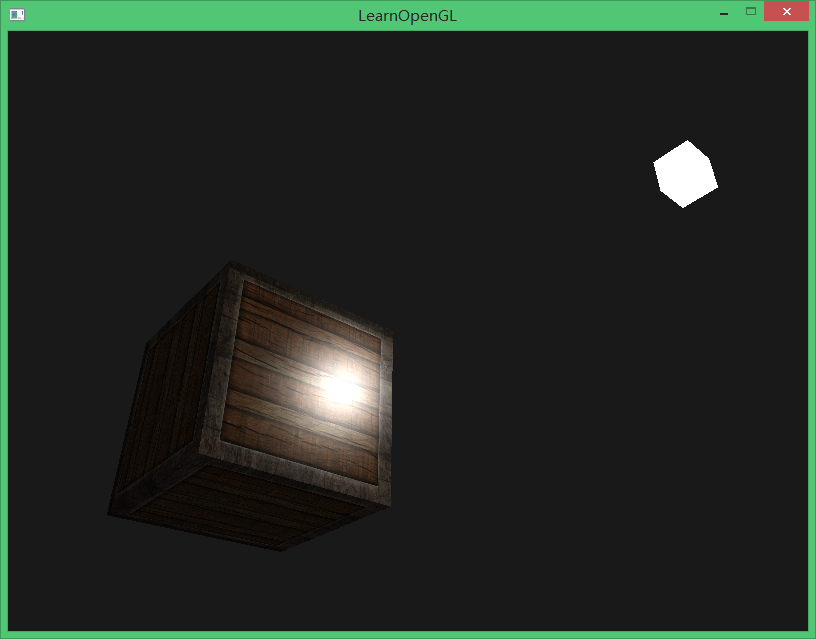
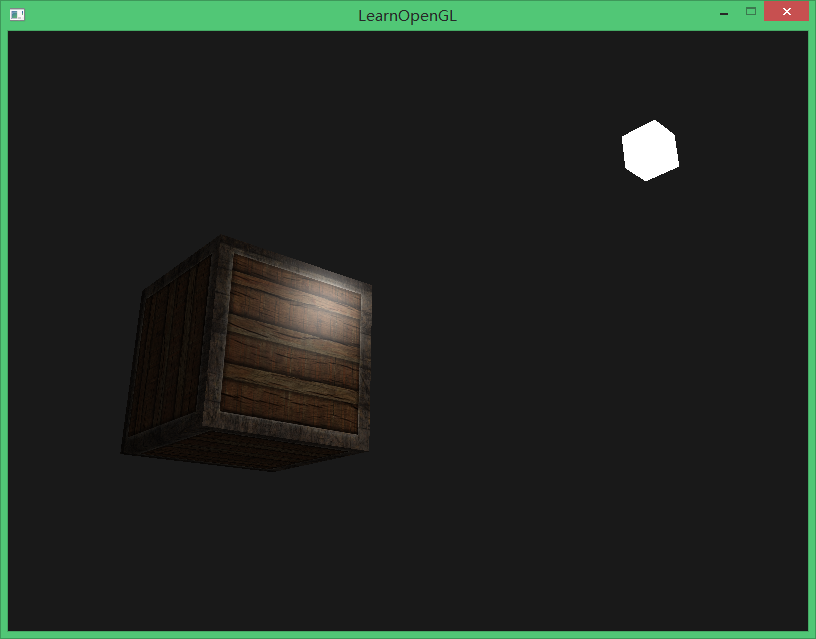
更新光照贴图

Changed region(s): [[0.2451, 0.3865, 0.4902, 0.8028], [0.7659, 0.1784, 0.8885, 0.3271]]

diff --git a/source/_posts/LearnOpenGL/chapter13_lighting_maps.md b/source/_posts/LearnOpenGL/chapter13_lighting_maps.md
@@ -6,4 +6,88 @@ tags:
 category: LearnOpenGL
 ---
 
+## 漫反射贴图
+在光照场景中，通过纹理来呈现一个物体的diffuse颜色，这个做法被称做**漫反射贴图(Diffuse texture)**
+使用下面的图片来演示漫反射贴图：
+![](container2.png)
+**Attention**
+**要记住的是sampler2D也叫做模糊类型，这意味着我们不能以某种类型对它实例化，只能用uniform定义它们。如果我们用结构体而不是uniform实例化（就像函数的参数那样），GLSL会抛出奇怪的错误；这同样也适用于其他模糊类型。**
+
+1.移除材质中的amibient颜色分量，因为ambient绝大多数情况等于diffuse颜色
+```C++
+struct Material
+{
+    sampler2D diffuse;
+    vec3 specular;
+    float shininess;
+};
+...
+in vec2 TexCoords;
+```
+**Important**
+**如果你非把ambient颜色设置为不同的值不可（不同于diffuse值），你可以继续保留ambient的vec3，但是整个物体的ambient颜色会继续保持不变。为了使每个原始像素得到不同ambient值，你需要对ambient值单独使用另一个纹理。**
+
+2.替换原来的diffuse和amibient颜色值
+```C++
+vec3 ambient = light.ambient * vec3(texture(material.diffuse, TexCoords));
+vec3 diffuse = light.diffuse * diff * vec3(texture(material.diffuse, TexCoords));
+```
+
+3.在顶点着色器中添加纹理坐标
+```C++
+#version 330 core
+layout (location = 0) in vec3 position;
+layout (location = 1) in vec3 normal;
+layout (location = 2) in vec2 texCoords;
+...
+out vec2 TexCoords;
+
+void main()
+{
+    ...
+    TexCoords = texCoords;
+}
+```
+
+4.更新材质中的diffuse纹理
+```C++
+glUniform1i(glGetUniformLocation(lightingShader.Program, "material.diffuse"), 0);
+...
+glActiveTexture(GL_TEXTURE0);
+glBindTexture(GL_TEXTURE_2D, diffuseMap);
+```
+
+得到下列的箱子：
+![](diffuse_map_example.png)
+
+## 镜面贴图
+由于木头的材质不应该有镜面高光，铁架子部分是会显示镜面高光的，所以用一个中间黑色的纹理来处理镜面高光：
+![](container2_specular.png)
+一个specular高光的亮度可以通过图片中每个纹理的亮度来获得。specular贴图的每个像素可以显示为一个颜色向量，比如：在那里黑色代表颜色向量vec3(0.0f)，灰色是vec3(0.5f)。在片段着色器中，我们采样相应的颜色值，把它乘以光的specular亮度。像素越“白”，乘积的结果越大，物体的specualr部分越亮。
+
+## 镜面贴图采样
+1.更新材质中的镜面属性，并绑定纹理到镜面中
+```C++
+struct Material
+{
+    sampler2D diffuse;
+    sampler2D specular;
+    float shininess;
+};
+```
+```C++
+glUniform1i(glGetUniformLocation(lightingShader.Program, "material.specular"), 1);
+...
+glActiveTexture(GL_TEXTURE1);
+glBindTexture(GL_TEXTURE_2D, specularMap);
+```
+2.更新片段着色器的镜面光照
+```C++
+vec3 ambient = light.ambient * vec3(texture(material.diffuse, TexCoords));
+vec3 diffuse = light.diffuse * diff * vec3(texture(material.diffuse, TexCoords));
+vec3 specular = light.specular * spec * vec3(texture(material.specular, TexCoords));
+color = vec4(ambient + diffuse + specular, 1.0f);
+```
+得到具有高光的铁边箱子：
+![](specular_map_example.png)
 **源文章出处[LearnOpenGL](http://learnopengl-cn.readthedocs.io/zh/latest/02%20Lighting/04%20Lighting%20maps/)**
